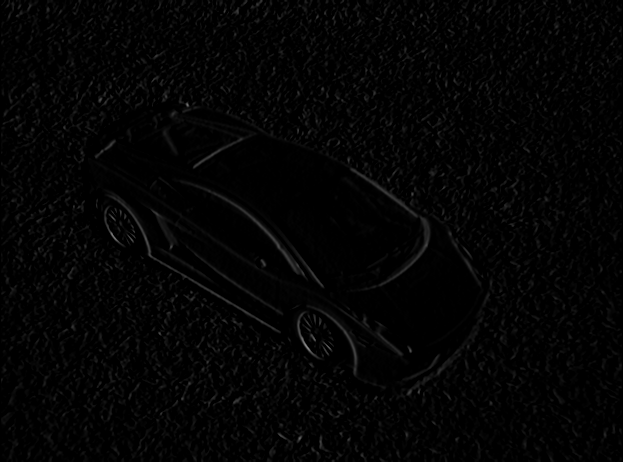
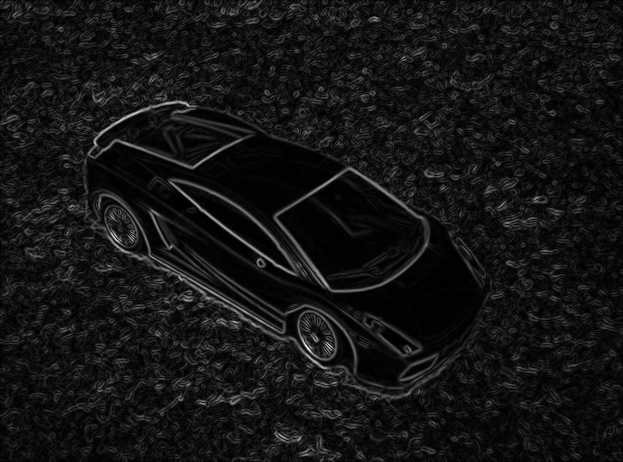
ass3 commit

diff --git a/Assignment_3/main.py b/Assignment_3/main.py
@@ -1,6 +1,4 @@
 import cv2
-import numpy as np
-
 
 img = cv2.imread('images/lambo.png')
 img_gray = cv2.cvtColor(img, cv2.COLOR_BGR2GRAY)
@@ -26,7 +24,7 @@ def sobel_edge_detection(image):
 
 
     cv2.imshow('Sobel gradient magnitude', sobelFinalized)
-    cv2.imwrite('images/sobel_lambo.png', sobelx)
+    cv2.imwrite('images/sobel_lambo.png', sobelFinalized)
 
     cv2.waitKey(0)
 
@@ -36,13 +34,27 @@ def canny_edge_detection(image, threshold_1, threshold_2):
     edges = cv2.Canny(image=img_gaussian, threshold1=threshold_1, threshold2=threshold_2)
 
     cv2.imshow('Canny Edge Detection', edges)
+    cv2.imwrite('images/canny_lambo.png', edges)
     cv2.waitKey(0)
 
 
+def resize(image, scale_factor: int, up_or_down: str):
+    print("nothing")
+
+    rows, cols, _channels = map(int, image.shape)
 
 
+    if up_or_down == "up":
+        image = cv2.pyrUp(image, dstsize=(scale_factor * cols, scale_factor * rows))
+    elif up_or_down == "down":
+        image = cv2.pyrDown(image, dstsize=(cols // scale_factor, rows // scale_factor))
 
+    cv2.imshow('Resized Image', image)
+    cv2.imwrite('images/downsized_lambo.png', image)
+    cv2.waitKey(0)
 
-#sobel_edge_detection(img_gray)
+resize(img, scale_factor=2, up_or_down="down")
+
+sobel_edge_detection(img_gray)
 
 canny_edge_detection(img_gray, 100, 150)

diff --git a/Assignment_3/Task3.py b/Assignment_3/Task3.py
@@ -15,9 +15,8 @@ def template_match(image, template):
     loc = np.where(res >= threshold)
 
     for pt in zip(*loc[::-1]):
-        cv2.rectangle(image, pt, (pt[0] + w, pt[1] + h), (0, 0, 255), 1)
+        cv2.rectangle(img, pt, (pt[0] + w, pt[1] + h), (0, 0, 255), 1)
 
-    cv2.imwrite('images/res.png', image)
-
+    cv2.imwrite('images/shapes_matched.png', img)
 
 template_match(img_gray, template_gray)
